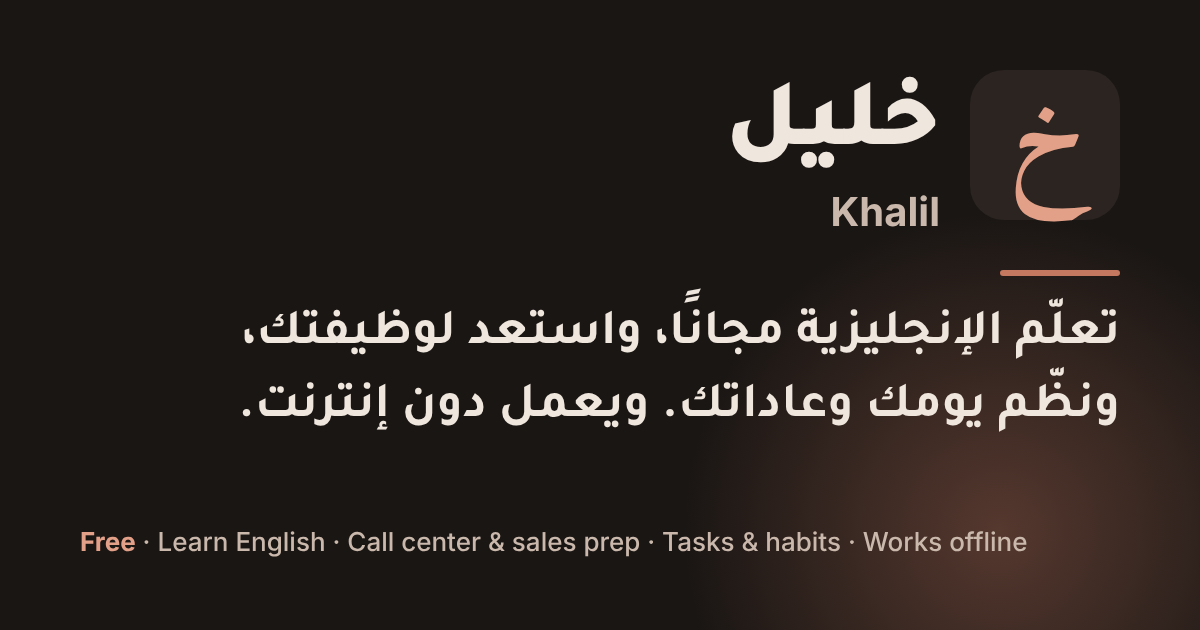
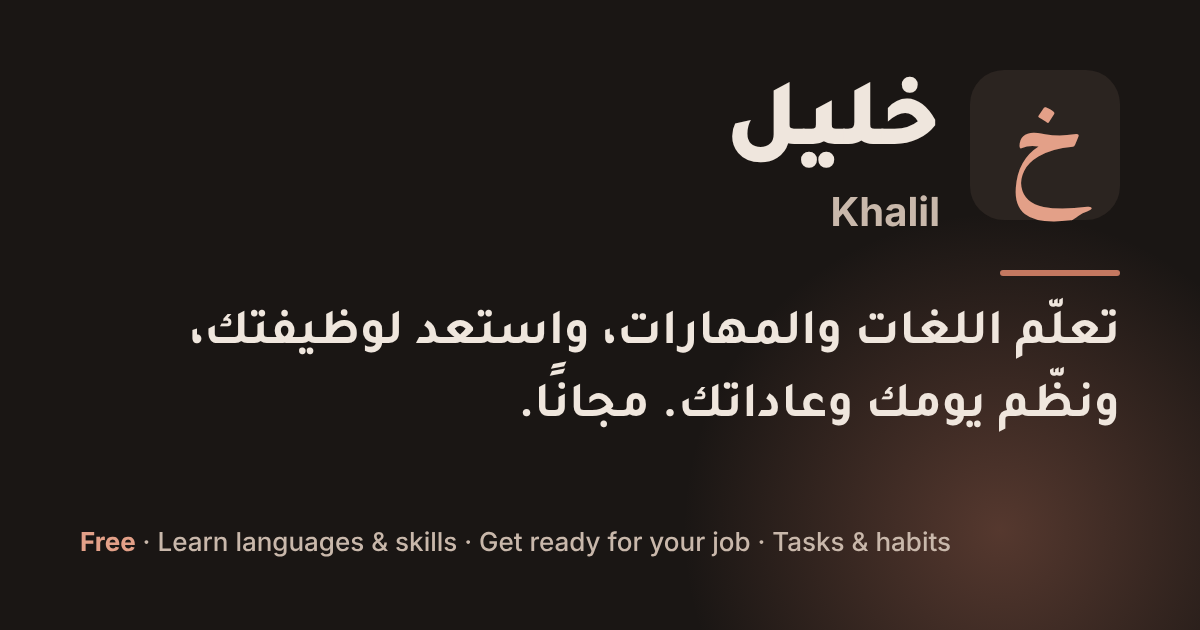
Link previews: learn languages and skills, get ready for your job
What WhatsApp and Facebook show for a shared link now says what Khalil is
becoming: languages (not English alone), skills and a job, and the day. It no
longer names Call Center and Sales (closed for now) or working offline (left
for visitors to find inside). The picture's address carries ?v=2 so apps that
saved the old picture fetch the new one.

Claude-Session: https://claude.ai/code/session_01WZyWAjxLoGE4jLwngGmthp

Changed region(s): [[0.1542, 0.4524, 0.8325, 0.6937], [0.185, 0.8444, 0.8633, 0.8746]]

diff --git a/index.html b/index.html
@@ -16,10 +16,10 @@
       href="https://fonts.googleapis.com/css2?family=Amiri:wght@400;700&family=Inter:ital,opsz,wght@0,14..32,100..900;1,14..32,100..900&family=Tajawal:wght@300;400;500;700;900&family=Noto+Naskh+Arabic:wght@400;500;600;700&display=swap"
       rel="stylesheet"
     />
-    <title>خليل Khalil | تعلّم الإنجليزية مجانًا ونظّم يومك وعاداتك</title>
+    <title>خليل Khalil | تعلّم اللغات والمهارات، واستعد لوظيفتك</title>
     <meta
       name="description"
-      content="خليل تطبيق مجاني بالعربية والإنجليزية: مسار يومي لتعلم الإنجليزية من A1 إلى C1، وبطاقات مراجعة ذكية، ومواضيع للمحادثة، واستعداد لوظائف مراكز الاتصال والمبيعات، ومهام وعادات. جرّبه دون تسجيل."
+      content="خليل تطبيق مجاني بالعربية والإنجليزية: تعلّم اللغات والمهارات، واستعد لوظيفتك، ونظّم يومك ومهامك وعاداتك. مسار يومي لتعلم الإنجليزية من مستواك، وبطاقات مراجعة ذكية. جرّبه دون تسجيل."
     />
     <link rel="canonical" href="https://khalil-34xv.vercel.app/" />
     <link rel="alternate" hreflang="ar" href="https://khalil-34xv.vercel.app/ar" />
@@ -27,15 +27,15 @@
     <link rel="alternate" hreflang="x-default" href="https://khalil-34xv.vercel.app/" />
     <meta property="og:type" content="website" />
     <meta property="og:site_name" content="خليل Khalil" />
-    <meta property="og:title" content="خليل Khalil | تعلّم الإنجليزية مجانًا ونظّم يومك" />
+    <meta property="og:title" content="خليل Khalil | تعلّم اللغات والمهارات، واستعد لوظيفتك" />
     <meta
       property="og:description"
-      content="مسار يومي لتعلم الإنجليزية، وبطاقات مراجعة، والاستعداد لوظائف مراكز الاتصال والمبيعات، ومهام وعادات. مجاني، وتجربه دون تسجيل."
+      content="تعلّم اللغات والمهارات، واستعد لوظيفتك، ونظّم يومك ومهامك وعاداتك. مجاني، وتجربه دون تسجيل."
     />
     <meta property="og:url" content="https://khalil-34xv.vercel.app/" />
     <meta property="og:locale" content="ar_EG" />
     <meta property="og:locale:alternate" content="en_US" />
-    <meta property="og:image" content="https://khalil-34xv.vercel.app/og-image.png" />
+    <meta property="og:image" content="https://khalil-34xv.vercel.app/og-image.png?v=2" />
     <meta property="og:image:width" content="1200" />
     <meta property="og:image:height" content="630" />
     <meta name="twitter:card" content="summary_large_image" />

diff --git a/src/seo/pages/home.ts b/src/seo/pages/home.ts
@@ -35,14 +35,14 @@ export function homePages(origin: string): Page[] {
     'A focus timer, a calendar, bookmarks and analytics that show your progress.',
   ];
 
-  const arDescription = `تطبيق مجاني بالعربية والإنجليزية: مسار يومي لتعلم الإنجليزية من A1 إلى C1، وبطاقات مراجعة ذكية، و${arCount(topics, NOUNS.topic)} للمحادثة، واستعداد لوظائف مراكز الاتصال والمبيعات، ومهام وعادات. جرّبه دون تسجيل.`;
-  const enDescription = `A free app in Arabic and English: a daily English path from A1 to C1, smart flashcards, ${topics} conversation topics, call center and sales prep, tasks and habits. Try it without signing up.`;
+  const arDescription = `تطبيق مجاني بالعربية والإنجليزية: تعلّم اللغات والمهارات، واستعد لوظيفتك، ونظّم يومك وعاداتك. مسار يومي لتعلم الإنجليزية من A1 إلى C1، وبطاقات مراجعة ذكية، و${arCount(topics, NOUNS.topic)} للمحادثة. جرّبه دون تسجيل.`;
+  const enDescription = `A free app in Arabic and English: learn languages and skills, get ready for your job, and plan your day and habits. A daily English path from A1 to C1, smart flashcards and ${topics} conversation topics.`;
 
   const ar: Page = {
     path: ROUTES.home('ar'),
     lang: 'ar',
     section: 'home',
-    title: 'خليل | تعلّم الإنجليزية مجانًا ونظّم يومك وعاداتك',
+    title: 'خليل | تعلّم اللغات والمهارات مجانًا، واستعد لوظيفتك',
     description: arDescription,
     h1: 'خليل: تعلّم الإنجليزية والمهارات، ونظّم يومك، مجانًا',
     lead: 'خليل رفيق يومي بالعربية والإنجليزية: يعطيك كل يوم قليلًا من كل مهارة في الإنجليزية، ويعدّك لوظيفة، وينظّم مهامك وعاداتك وورْدك. مجاني، ويعمل في المتصفح على الهاتف والحاسوب، ودروسه المكتوبة تفتح حتى دون إنترنت.',
@@ -80,7 +80,7 @@ export function homePages(origin: string): Page[] {
     path: ROUTES.home('en'),
     lang: 'en',
     section: 'home',
-    title: 'Khalil: Learn English for Free, Plan Your Day and Habits',
+    title: 'Khalil: Learn Languages and Skills for Free, Get Job-Ready',
     description: enDescription,
     h1: 'Khalil: learn English and new skills, and plan your day, for free',
     lead: 'Khalil is a daily companion in Arabic and English. It gives you a little of every English skill each day, prepares you for a job, and organizes your tasks, habits and wird. It’s free and runs in the browser on your phone or computer, and its written lessons open even offline.',

diff --git a/src/seo/render.ts b/src/seo/render.ts
@@ -237,7 +237,7 @@ export function renderHtml(page: Page, origin: string): string {
     `<meta property="og:description" content="${escapeHtml(page.description)}">`,
     `<meta property="og:url" content="${url}">`,
     `<meta property="og:locale" content="${OG_LOCALE[lang]}">`,
-    `<meta property="og:image" content="${origin}/og-image.png">`,
+    `<meta property="og:image" content="${origin}/og-image.png?v=2">`,
     '<meta property="og:image:width" content="1200">',
     '<meta property="og:image:height" content="630">',
     '<meta name="twitter:card" content="summary_large_image">',

diff --git a/src/seo/schema.ts b/src/seo/schema.ts
@@ -73,7 +73,7 @@ export function article(opts: { origin: string; path: string; lang: Lang; headli
     url: `${opts.origin}${opts.path}`,
     mainEntityOfPage: `${opts.origin}${opts.path}`,
     isAccessibleForFree: true,
-    image: `${opts.origin}/og-image.png`,
+    image: `${opts.origin}/og-image.png?v=2`,
     author: publisher(opts.origin),
     publisher: publisher(opts.origin),
     ...(opts.about ? { about: opts.about } : {}),
